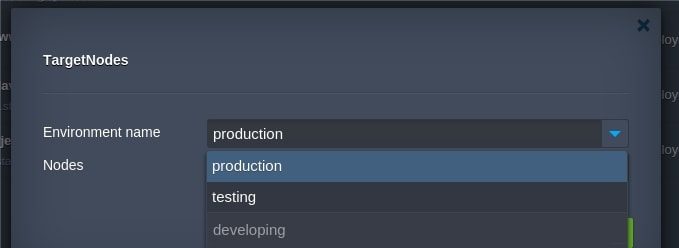
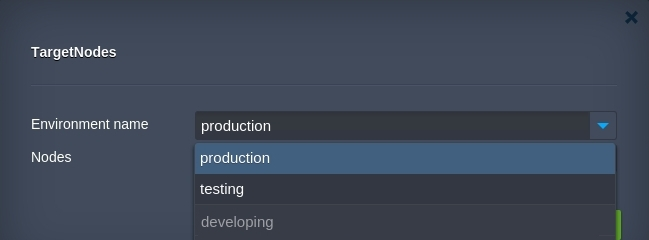
fix image names

Changed region(s): [[0.0, 0.0, 1.0, 1.0], [0.3082, 0.9042, 0.4314, 0.9625]]

diff --git a/docs/creating-manifest/visual-settings.md b/docs/creating-manifest/visual-settings.md
@@ -2981,10 +2981,11 @@ buttons:
 
 Here, the *main settings* form appears during installation process.
 
-![settingMain](/img/SettingsMain.jpg)
+![settingMain](/img/settingsmain.png)
 
 *config settings* form appears after clicking the <b>Configure</b> button within the Add-ons section.
 
+![settingCustom](/img/settingscustom.png)
 ![settingCustom](/img/SettingsCustom.jpg)
 
 ## Success Text Customization